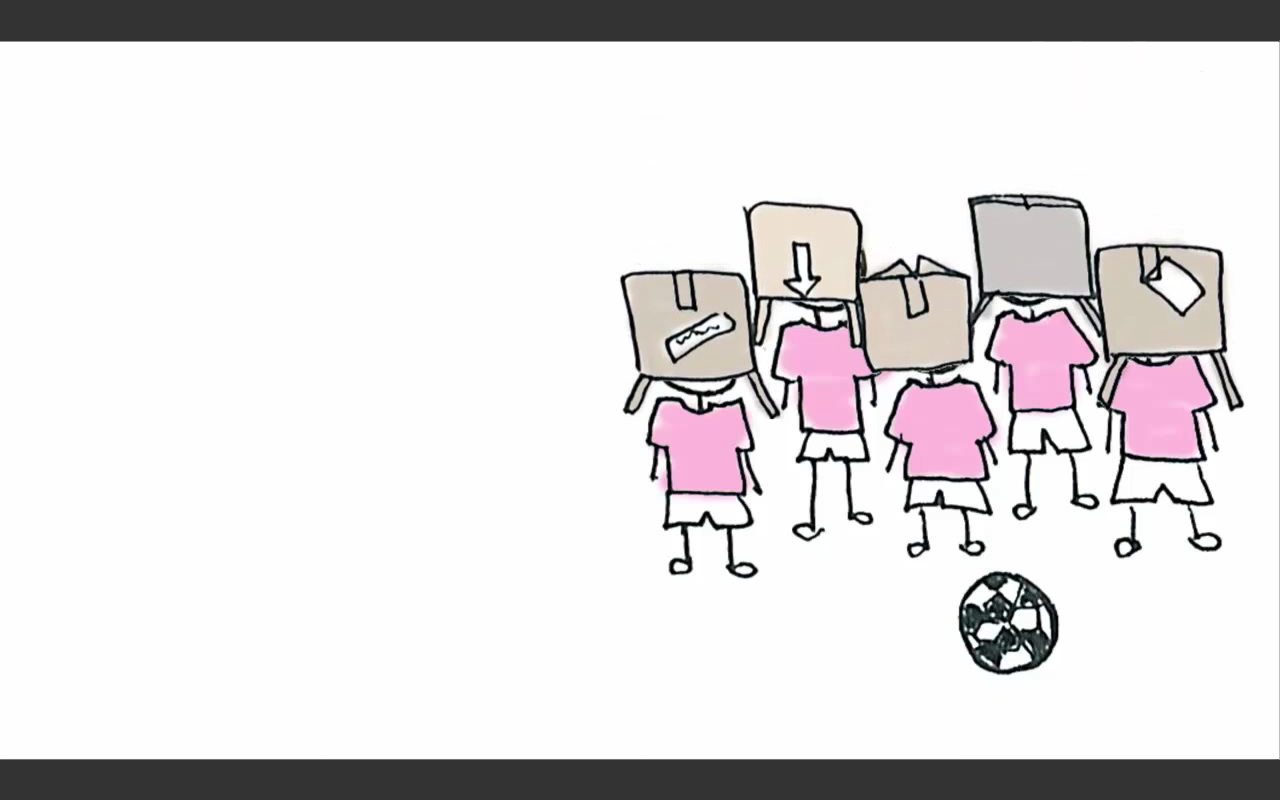
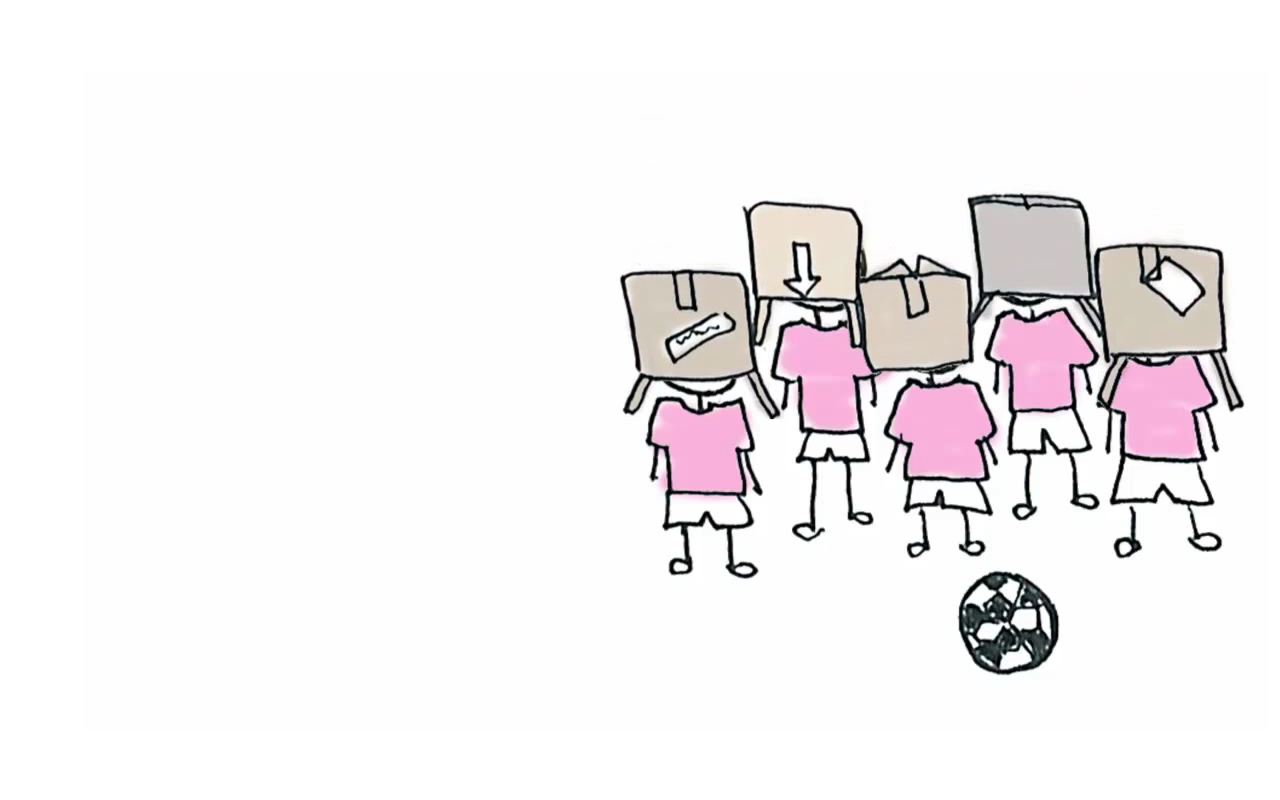
pre-launch design edits: finish site-wide branding, subheaders, forms, add legend to public_map

Changed region(s): [[0.0, 0.9375, 1.0, 1.0], [0.0, 0.0, 1.0, 0.0625]]

diff --git a/app/assets/stylesheets/public_pages/_static_pages.scss b/app/assets/stylesheets/public_pages/_static_pages.scss
@@ -73,8 +73,9 @@
     width: 100%;
     height: 575px;
     background: image-url('ccu-home-slide.png') bottom center;
-    background-size: cover;
-    background-position: center;
+    background-size: 90%;
+    background-repeat: no-repeat;
+    background-position: center right;
     overflow: visible;
 }
 
@@ -98,6 +99,7 @@
     }
 }
 
+// infobox
 #map-infobox {
   display: none;
   z-index: 2;
@@ -171,6 +173,7 @@
         width: 100px;
         height: 100px;
     }
+    margin-bottom: 40px;
 }
 
 .cta {

diff --git a/app/assets/stylesheets/application.scss b/app/assets/stylesheets/application.scss
@@ -178,6 +178,19 @@ p.notice {
     margin-right: auto;
 }
 
+// legend 
+.legend {
+  z-index: 2;
+  position: absolute;
+  left: 0;
+  margin-top: -214px;
+  background-color: #ffffff;
+  padding: 0px;
+  max-width: 200px;
+  border-top: 2px solid #5c5c5c;    
+  border-right: 2px solid #5c5c5c;    
+}
+
 // generate random temporary password 
 .temporary_password {
     color: #43AC6A;

diff --git a/app/assets/stylesheets/incident_pages/_map.scss b/app/assets/stylesheets/incident_pages/_map.scss
@@ -106,18 +106,8 @@ table {
     background-color: $smoke;
     margin-top: -3px;
 }
-.legend {
-  z-index: 2;
-  position: absolute;
-  left: 0;
-  margin-top: -214px;
-  background-color: #ffffff;
-  padding: 0px;
-  max-width: 200px;
-    border-top: 2px solid #5c5c5c;    
-    border-right: 2px solid #5c5c5c;    
-}
-
+    
+// infobox
 #map-infobox {
   display: none;
   z-index: 2;

diff --git a/spec/features/worker/invitations/invitation_actions_spec.rb b/spec/features/worker/invitations/invitation_actions_spec.rb
@@ -4,7 +4,7 @@ describe "View worker contacts", :type => :feature, :js => true do
   it "loads a page with the proper main header" do
   	sign_in_with_user
     visit '/dashboard'
-    click_button 'Create Temporary Password'
+    click_button 'Generate Password'
     page.driver.browser.switch_to.alert.accept
     expect(page).to have_content "Temporary password successfully created"
   end
